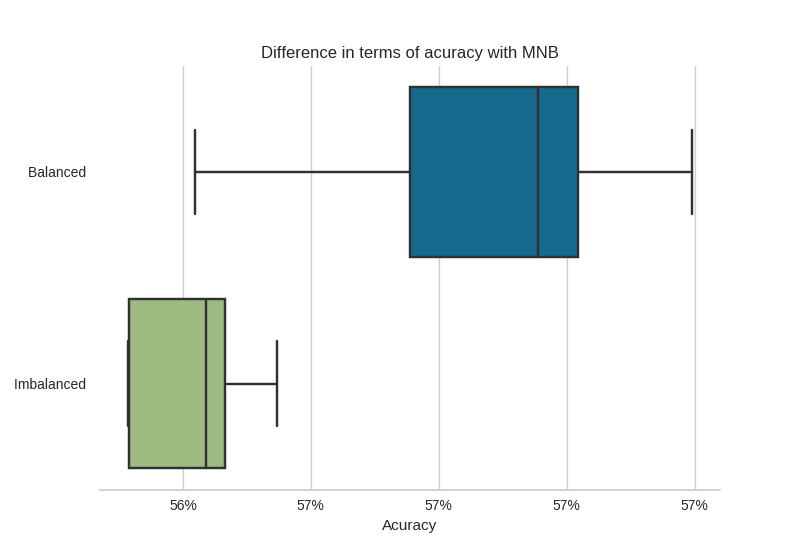
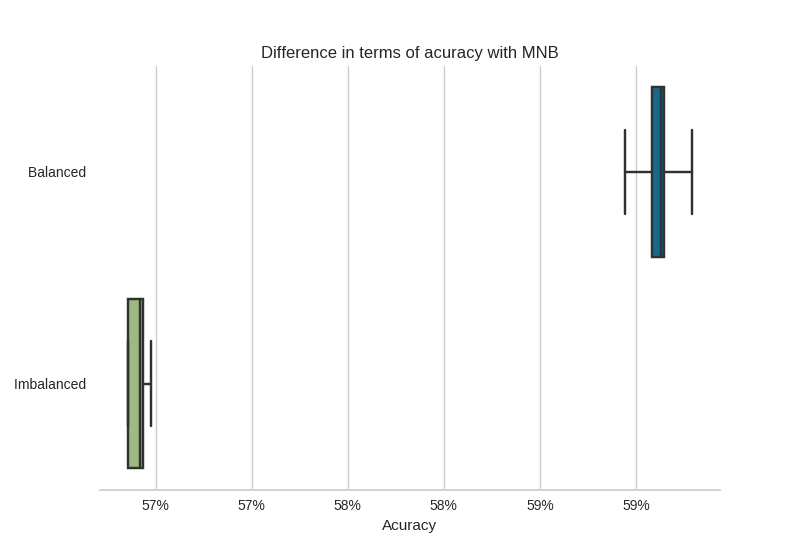
Novas figuras a partir da nova base de dados

diff --git a/dissertacao/5_2_selecao_modelo.py b/dissertacao/5_2_selecao_modelo.py
@@ -80,21 +80,21 @@ for trainamento_index, teste_index in split.split(X_completo, Y_completo):
     conjunto_treinamento = dados_completo.loc[trainamento_index]
     conjunto_teste = dados_completo.loc[teste_index]
 
-# balanceador = EditedNearestNeighbours(n_jobs=n_jobs, kind_sel='all',
-#                                       sampling_strategy=classes_balancear, n_neighbors=3)
+balanceador = EditedNearestNeighbours(n_jobs=n_jobs, kind_sel='all',
+                                      sampling_strategy=classes_balancear, n_neighbors=3)
 # balanceador = AllKNN(sampling_strategy=classes_balancear)
 # balanceador = NeighbourhoodCleaningRule(sampling_strategy=classes_balancear)
 # balanceador = RandomUnderSampler()
-balanceador = SMOTEENN()
+# balanceador = SMOTEENN()
 print(balanceador)
-# X_treino, Y_treino = balanceador.fit_resample(
-#     conjunto_treinamento.drop('carcass_fatness_degree', axis=1),
-#     conjunto_treinamento['carcass_fatness_degree'])
-# X_treino = pd.DataFrame(data=X_treino, columns=X_completo.columns)
-# Y_treino = pd.DataFrame(data=Y_treino, columns=['carcass_fatness_degree'])
-#
-# X_treino.to_csv('../input/DadosCompletoTransformadoMLBalanceadoX.csv', encoding='utf-8', sep='\t')
-# Y_treino.to_csv('../input/DadosCompletoTransformadoMLBalanceadoY.csv', encoding='utf-8', sep='\t')
+X_treino, Y_treino = balanceador.fit_resample(
+    conjunto_treinamento.drop('carcass_fatness_degree', axis=1),
+    conjunto_treinamento['carcass_fatness_degree'])
+X_treino = pd.DataFrame(data=X_treino, columns=X_completo.columns)
+Y_treino = pd.DataFrame(data=Y_treino, columns=['carcass_fatness_degree'])
+
+X_treino.to_csv('../input/DadosCompletoTransformadoMLBalanceadoX.csv', encoding='utf-8', sep='\t')
+Y_treino.to_csv('../input/DadosCompletoTransformadoMLBalanceadoY.csv', encoding='utf-8', sep='\t')
 # exit()
 X_treino = pd.read_csv('../input/DadosCompletoTransformadoMLBalanceadoX.csv', encoding='utf-8', delimiter='\t')
 X_treino.drop(X_treino.columns[0], axis=1, inplace=True)
